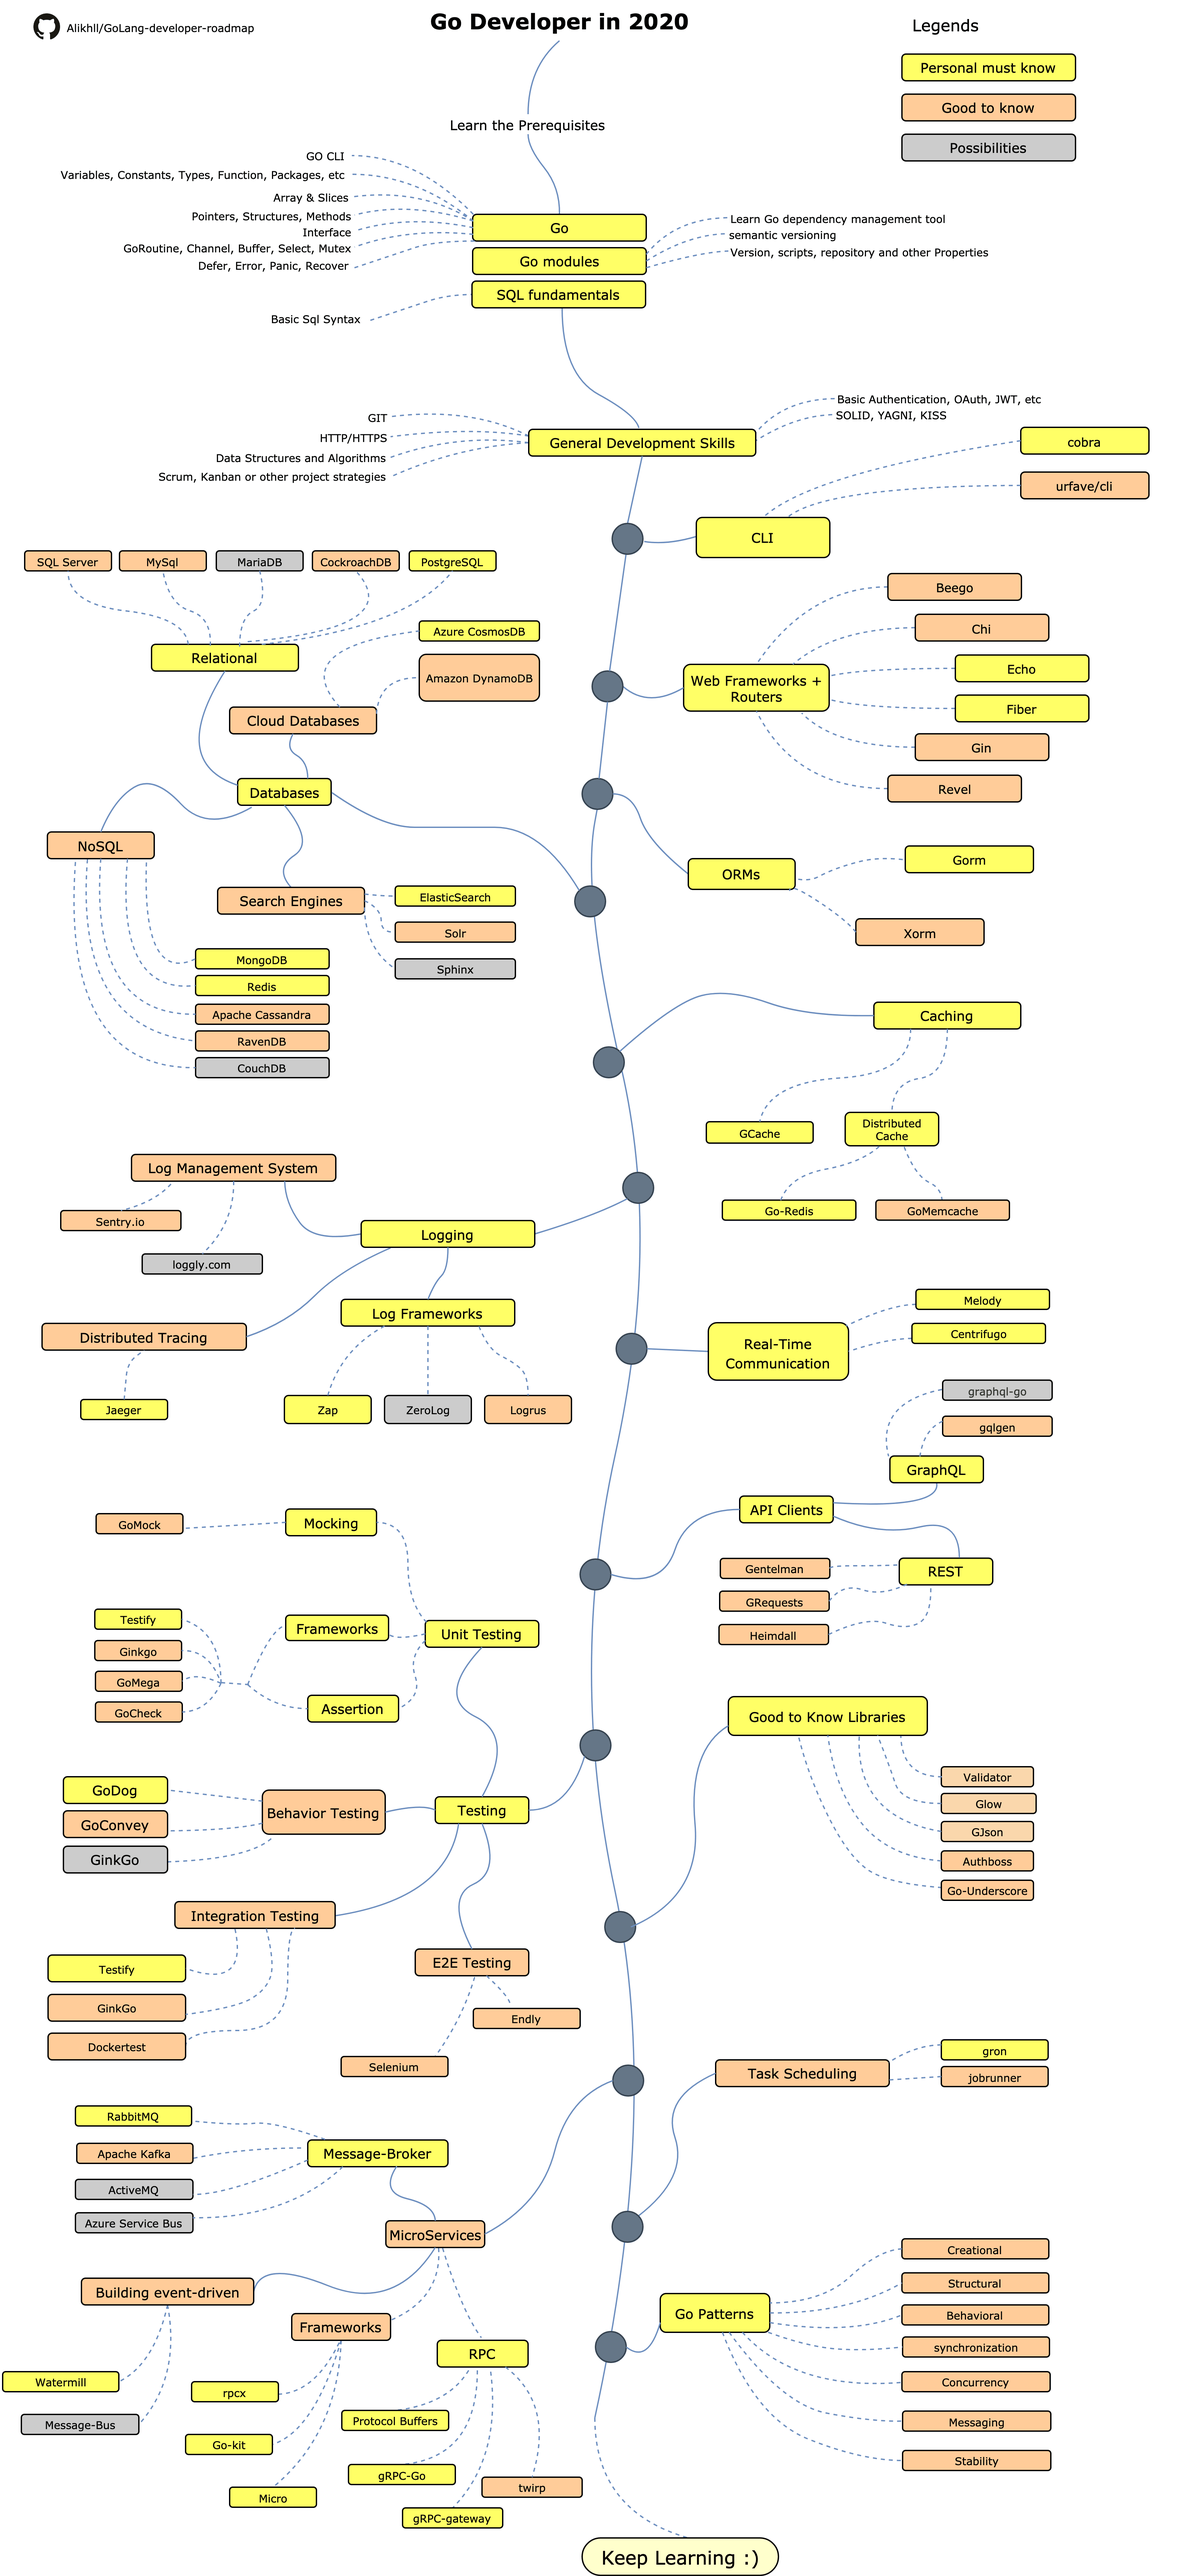
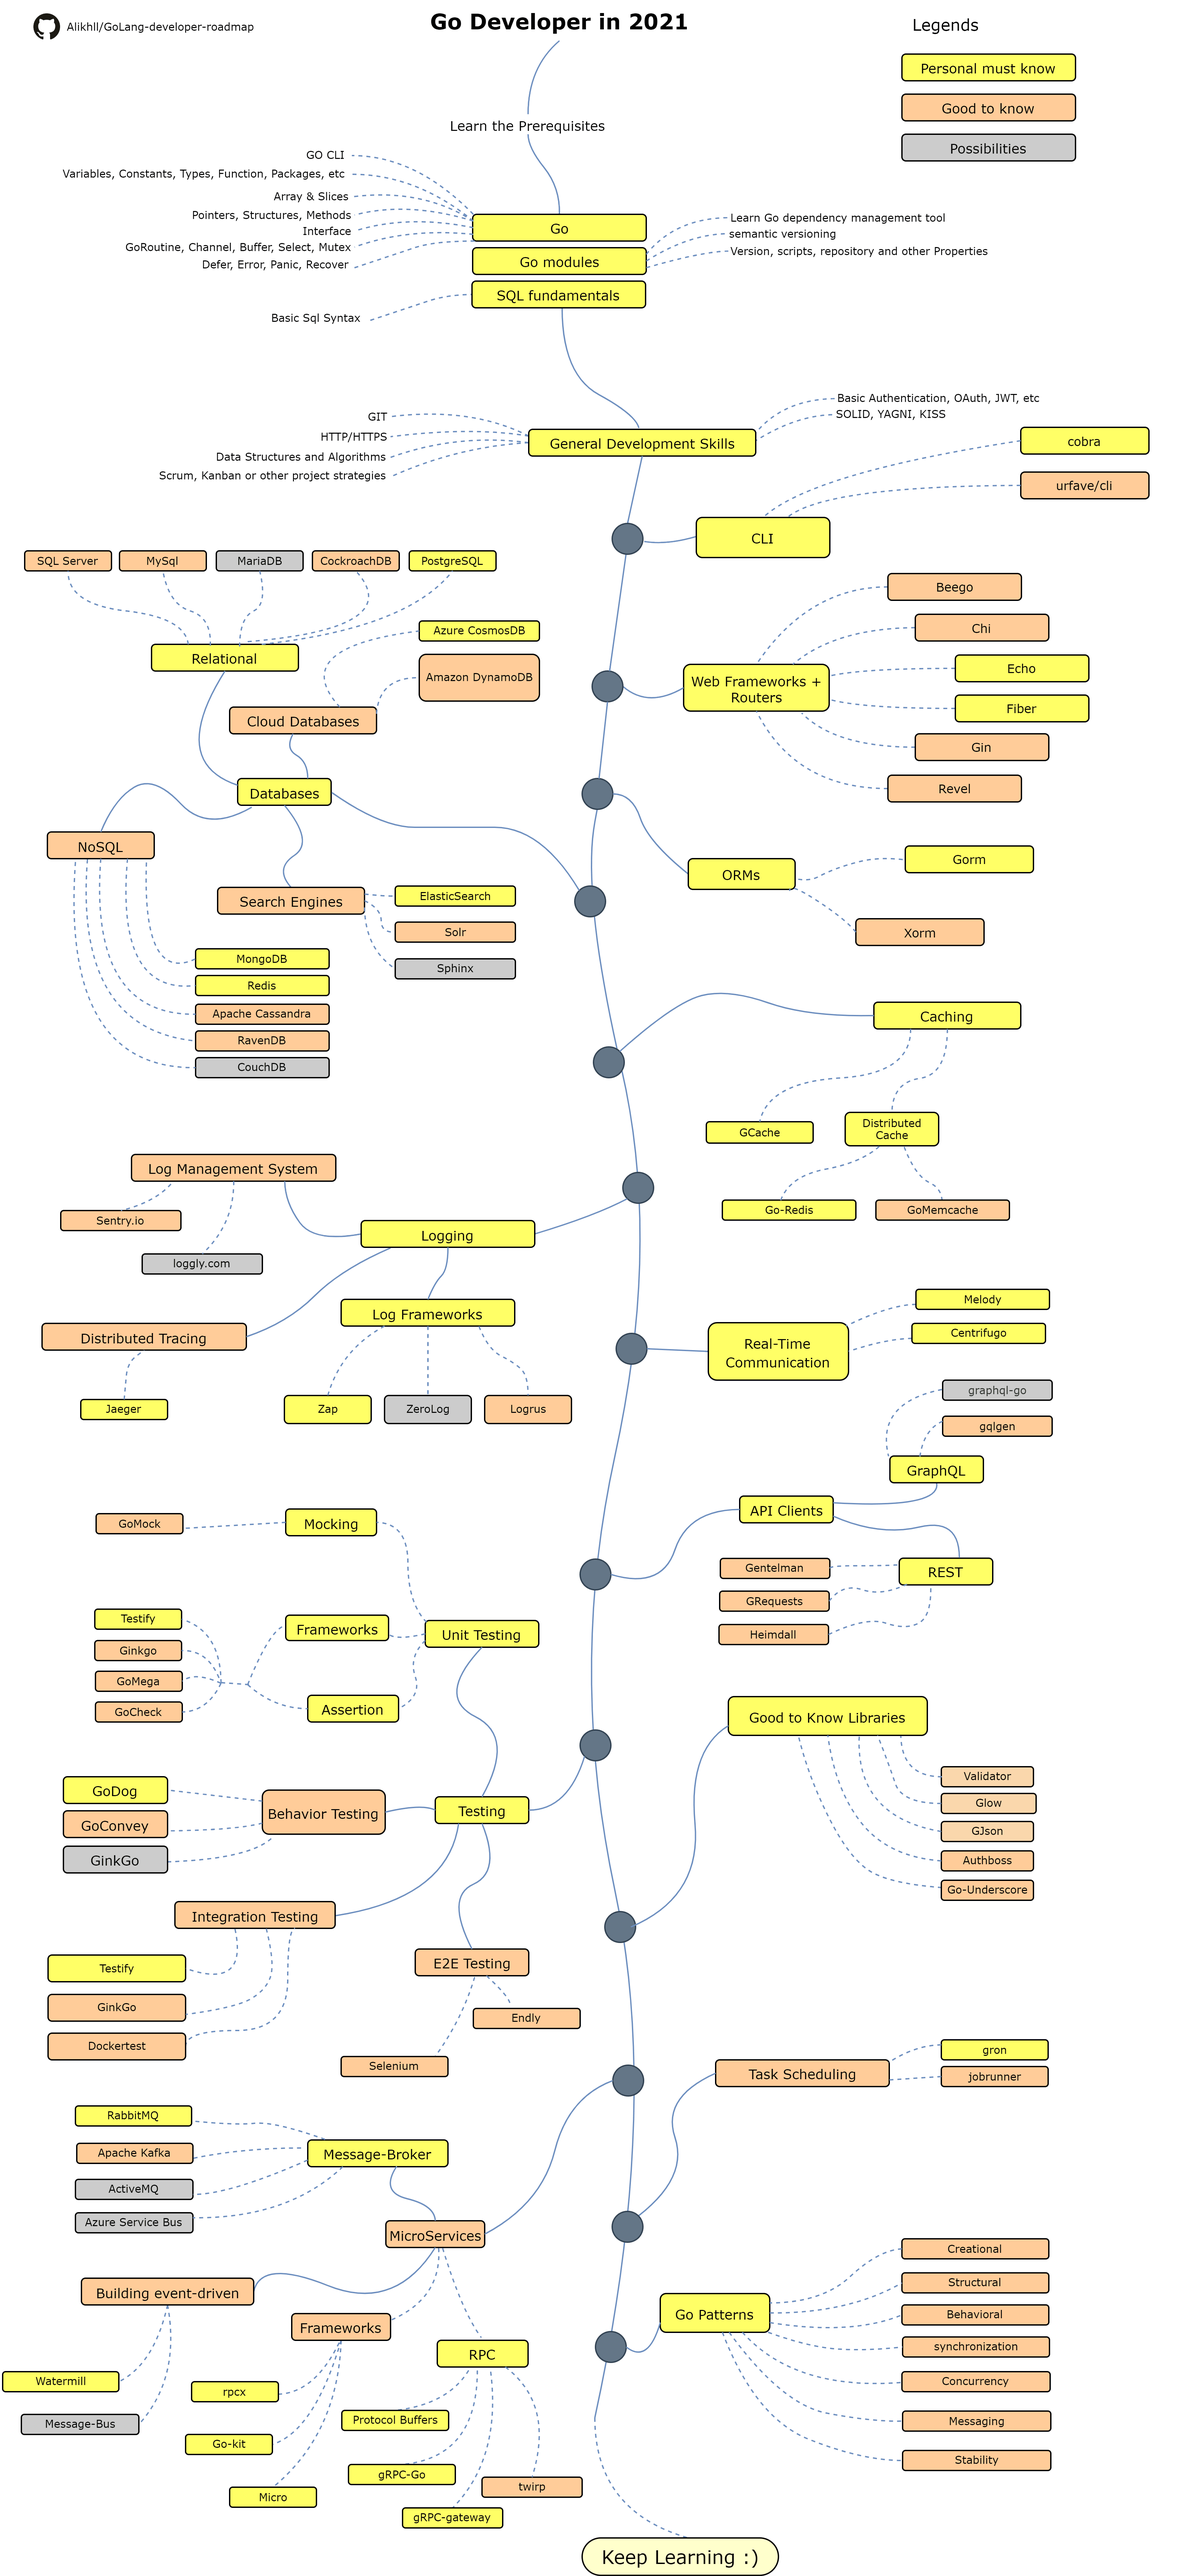
Update ru-ru map

diff --git a/i18n/ru-RU/ReadMe-ru-RU.md b/i18n/ru-RU/ReadMe-ru-RU.md
@@ -1,14 +1,15 @@
 # Go Developer Roadmap
 
-> Roadmap чтобы стать [Go](https://golang.org/) разработчиом в 2020 году:
+> Roadmap чтобы стать [Go](https://golang.org/) разработчиом в 2021 году:
 
 Ниже вы можете найти диаграмму, демонстрирующую пути и библиотеки, которые вы можете выбрать, чтобы стать разработчиком Go. Я сделал эту диаграмму в качестве подсказки для всех, кто спрашивает меня: «Что я должен изучить дальше как разработчик на Go?»
 
 [English](../../ReadMe.md)
-[中文版](./i18n/zh-CN/ReadMe-zh-CN.md)
-[日本語版](./i18n/ja-JP/ReadMe-ja-JP.md)
-[Versão em Português do Brasil](./i18n/pt-BR/ReadMe-pt-BR.md)
-[한국어](./i18n/ko-KR/ReadMe-ko-KR.md)
+[中文版](../zh-CN/ReadMe-zh-CN.md)
+[日本語版](../ja-JP/ReadMe-ja-JP.md)
+[Versão em Português do Brasil](../pt-BR/ReadMe-pt-BR.md)
+[한국어](../ko-KR/ReadMe-ko-KR.md)
+[Українська](../uk-UA/ReadMe-uk-UA.md)
 
 ## Disclaimer
 
